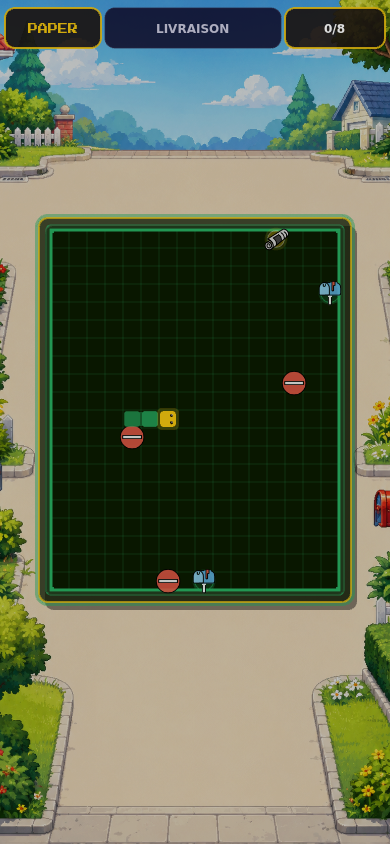
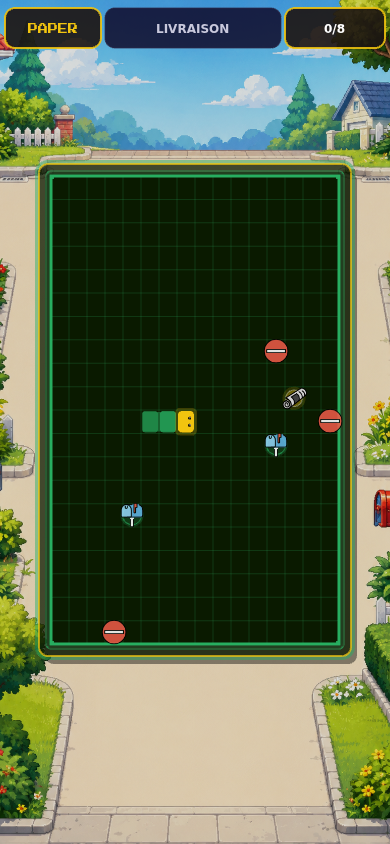
Stretch gameplay grid to Castle frame

diff --git a/src/scenes/GameScene.ts b/src/scenes/GameScene.ts
@@ -14,7 +14,7 @@ import { ShinobiFocusMechanic } from '../mechanics/ShinobiFocusMechanic';
 import { OutRunLaneMechanic } from '../mechanics/OutRunLaneMechanic';
 import { PaperboyDeliveryMechanic } from '../mechanics/PaperboyDeliveryMechanic';
 import { BaseBoss } from '../mechanics/bosses/BaseBoss';
-import { GridRenderer, computeGridLayout, GridLayout, cellToPixel } from '../render/GridRenderer';
+import { GridRenderer, computeGridLayout, GridLayout, cellToPixel, getCellHeight, getCellMin, getCellWidth } from '../render/GridRenderer';
 import { SnakeRenderer } from '../render/SnakeRenderer';
 import { PickupRenderer } from '../render/PickupRenderer';
 import { ObstacleRenderer } from '../render/ObstacleRenderer';
@@ -55,6 +55,7 @@ export class GameScene extends Phaser.Scene {
   private gameOver = false;
   private cleared = false;
   private layout!: GridLayout;
+  private visualBoardLayout!: GridLayout;
   private gridCols = GRID_COLS;
   private gridRows = GRID_ROWS;
 
@@ -152,8 +153,8 @@ export class GameScene extends Phaser.Scene {
     this.gridCols = this.levelConfig.universeId === 'castle' ? CASTLE_GRID_COLS : GRID_COLS;
     this.gridRows = this.levelConfig.universeId === 'castle' ? CASTLE_GRID_ROWS : GRID_ROWS;
     this.grid = new Grid(this.gridCols, this.gridRows);
-    const castleReferenceLayout = this.computeCastleReferenceLayout(width, height);
-    this.layout = this.computeActiveGridLayout(castleReferenceLayout, this.gridCols, this.gridRows);
+    this.visualBoardLayout = this.computeCastleReferenceLayout(width, height);
+    this.layout = this.computeActiveGridLayout(this.visualBoardLayout, this.gridCols, this.gridRows);
 
     // 906 — compute asset keys before renderer creation
     const uid        = this.levelConfig.universeId;
@@ -256,10 +257,10 @@ export class GameScene extends Phaser.Scene {
     }
 
     const gridBounds = new Phaser.Geom.Rectangle(
-      this.layout.x,
-      this.layout.y,
-      this.layout.cellSize * this.layout.cols,
-      this.layout.cellSize * this.layout.rows,
+      this.visualBoardLayout.x,
+      this.visualBoardLayout.y,
+      getCellWidth(this.visualBoardLayout) * this.visualBoardLayout.cols,
+      getCellHeight(this.visualBoardLayout) * this.visualBoardLayout.rows,
     );
     drawCastleRuntimeBoardPanel(this, gridBounds, {
       bg: this.colorBg,
@@ -351,13 +352,14 @@ export class GameScene extends Phaser.Scene {
   }
 
   private computeActiveGridLayout(reference: GridLayout, cols: number, rows: number): GridLayout {
-    const referenceHeight = reference.cellSize * reference.rows;
-    const activeHeight = reference.cellSize * rows;
-    const yOffset = Math.max(0, Math.floor((referenceHeight - activeHeight) / 2));
+    const referenceWidth = getCellWidth(reference) * reference.cols;
+    const referenceHeight = getCellHeight(reference) * reference.rows;
     return {
       x: reference.x,
-      y: reference.y + yOffset,
+      y: reference.y,
       cellSize: reference.cellSize,
+      cellWidth: referenceWidth / cols,
+      cellHeight: referenceHeight / rows,
       cols,
       rows,
     };
@@ -464,7 +466,7 @@ export class GameScene extends Phaser.Scene {
 
     glow.clear();
     const pulse = Math.sin(time / 360) * 0.5 + 0.5;
-    const cs = this.layout.cellSize;
+    const cs = getCellMin(this.layout);
     for (const pickup of pickups) {
       const { px, py } = cellToPixel(this.layout, pickup.col, pickup.row);
       glow.fillStyle(0xf6c45c, 0.20 + 0.08 * pulse);
@@ -483,7 +485,7 @@ export class GameScene extends Phaser.Scene {
     const entities = this.mechanic.getExtraEntities();
     const targets = entities.filter(e => e.type === 'deliveryTarget' || e.type === 'bossTarget');
     if (targets.length === 0) return;
-    const cs = this.layout.cellSize;
+    const cs = getCellMin(this.layout);
     const pulse = Math.sin(time / 350) * 0.5 + 0.5;
     for (const t of targets) {
       const { px, py } = cellToPixel(this.layout, t.cell.col, t.cell.row);

diff --git a/src/render/GridRenderer.ts b/src/render/GridRenderer.ts
@@ -5,6 +5,8 @@ export interface GridLayout {
   x: number;
   y: number;
   cellSize: number;
+  cellWidth?: number;
+  cellHeight?: number;
   cols: number;
   rows: number;
 }
@@ -40,10 +42,24 @@ export function computeGridLayout(
 }
 
 export function cellToPixel(layout: GridLayout, col: number, row: number): { px: number; py: number } {
+  const cellW = getCellWidth(layout);
+  const cellH = getCellHeight(layout);
   return {
-    px: layout.x + col * layout.cellSize + layout.cellSize / 2,
-    py: layout.y + row * layout.cellSize + layout.cellSize / 2,
+    px: layout.x + col * cellW + cellW / 2,
+    py: layout.y + row * cellH + cellH / 2,
   };
+}
+
+export function getCellWidth(layout: GridLayout): number {
+  return layout.cellWidth ?? layout.cellSize;
+}
+
+export function getCellHeight(layout: GridLayout): number {
+  return layout.cellHeight ?? layout.cellSize;
+}
+
+export function getCellMin(layout: GridLayout): number {
+  return Math.min(getCellWidth(layout), getCellHeight(layout));
 }
 
 export class GridRenderer {
@@ -71,10 +87,13 @@ export class GridRenderer {
     for (const t of this.frameTiles) t.destroy();
     this.frameTiles = [];
 
-    const { x, y, cellSize, cols, rows } = this.layout;
-    const w = cellSize * cols;
-    const h = cellSize * rows;
-    const tSize = Math.max(16, Math.min(cellSize * 1.2, 28));
+    const { x, y, cols, rows } = this.layout;
+    const cellW = getCellWidth(this.layout);
+    const cellH = getCellHeight(this.layout);
+    const cellMin = getCellMin(this.layout);
+    const w = cellW * cols;
+    const h = cellH * rows;
+    const tSize = Math.max(16, Math.min(cellMin * 1.2, 28));
 
     // 4 corners + midpoints on each side for a full border feel
     const positions: Array<[number, number]> = [
@@ -103,9 +122,12 @@ export class GridRenderer {
     this.lastBg = bgColor;
     this.lastLine = lineColor;
 
-    const { x, y, cellSize, cols, rows } = this.layout;
-    const w = cellSize * cols;
-    const h = cellSize * rows;
+    const { x, y, cols, rows } = this.layout;
+    const cellW = getCellWidth(this.layout);
+    const cellH = getCellHeight(this.layout);
+    const cellMin = getCellMin(this.layout);
+    const w = cellW * cols;
+    const h = cellH * rows;
 
     this.gfx.clear();
 
@@ -116,10 +138,10 @@ export class GridRenderer {
     // Inner grid lines (subtle)
     this.gfx.lineStyle(1, lineColor, 0.2);
     for (let c = 1; c < cols; c++) {
-      this.gfx.lineBetween(x + c * cellSize, y, x + c * cellSize, y + h);
+      this.gfx.lineBetween(x + c * cellW, y, x + c * cellW, y + h);
     }
     for (let r = 1; r < rows; r++) {
-      this.gfx.lineBetween(x, y + r * cellSize, x + w, y + r * cellSize);
+      this.gfx.lineBetween(x, y + r * cellH, x + w, y + r * cellH);
     }
 
     // Outer border — thick, full opacity
@@ -127,7 +149,7 @@ export class GridRenderer {
     this.gfx.strokeRect(x, y, w, h);
 
     // Corner accents — small filled squares at the 4 corners
-    const cs = Math.max(3, Math.floor(cellSize * 0.18));
+    const cs = Math.max(3, Math.floor(cellMin * 0.18));
     this.gfx.fillStyle(lineColor, 0.9);
     this.gfx.fillRect(x, y, cs, cs);
     this.gfx.fillRect(x + w - cs, y, cs, cs);

diff --git a/src/render/SnakeRenderer.ts b/src/render/SnakeRenderer.ts
@@ -1,6 +1,6 @@
 import Phaser from 'phaser';
 import { SnakeState } from '../core/Snake';
-import { GridLayout, cellToPixel } from './GridRenderer';
+import { GridLayout, cellToPixel, getCellHeight, getCellMin, getCellWidth } from './GridRenderer';
 
 export class SnakeRenderer {
   private gfx: Phaser.GameObjects.Graphics;
@@ -11,9 +11,12 @@ export class SnakeRenderer {
 
   draw(snake: SnakeState, layout: GridLayout, headColor: number, bodyColor: number): void {
     this.gfx.clear();
-    const cs = layout.cellSize;
+    const cs = getCellMin(layout);
+    const cellW = getCellWidth(layout);
+    const cellH = getCellHeight(layout);
     const pad = Math.max(1, Math.floor(cs * 0.1));
-    const bodySize = cs - pad * 2;
+    const bodyW = cellW - pad * 2;
+    const bodyH = cellH - pad * 2;
 
     // Draw body first (back to front, so head renders on top)
     for (let i = snake.body.length - 1; i >= 1; i--) {
@@ -23,7 +26,7 @@ export class SnakeRenderer {
       const t = 1 - i / snake.body.length;
       const alpha = 0.35 + 0.55 * t;
       this.gfx.fillStyle(bodyColor, alpha);
-      this.gfx.fillRoundedRect(px - cs / 2 + pad, py - cs / 2 + pad, bodySize, bodySize, 3);
+      this.gfx.fillRoundedRect(px - cellW / 2 + pad, py - cellH / 2 + pad, bodyW, bodyH, 3);
 
       // Segment connector between consecutive body parts
       if (i < snake.body.length - 1) {
@@ -31,8 +34,8 @@ export class SnakeRenderer {
         const { px: ppx, py: ppy } = cellToPixel(layout, prev.col, prev.row);
         const midX = (px + ppx) / 2;
         const midY = (py + ppy) / 2;
-        const connW = Math.abs(px - ppx) > 0 ? Math.abs(px - ppx) + bodySize : bodySize;
-        const connH = Math.abs(py - ppy) > 0 ? Math.abs(py - ppy) + bodySize : bodySize;
+        const connW = Math.abs(px - ppx) > 0 ? Math.abs(px - ppx) + bodyW : bodyW;
+        const connH = Math.abs(py - ppy) > 0 ? Math.abs(py - ppy) + bodyH : bodyH;
         this.gfx.fillStyle(bodyColor, alpha * 0.6);
         this.gfx.fillRect(
           midX - connW / 2 + pad,
@@ -48,15 +51,16 @@ export class SnakeRenderer {
       const head = snake.body[0];
       const { px, py } = cellToPixel(layout, head.col, head.row);
       const headPad = Math.max(1, Math.floor(cs * 0.06));
-      const headSize = cs - headPad * 2;
+      const headW = cellW - headPad * 2;
+      const headH = cellH - headPad * 2;
 
       // Head glow
       this.gfx.fillStyle(headColor, 0.22);
-      this.gfx.fillRoundedRect(px - cs / 2 - 2, py - cs / 2 - 2, cs + 4, cs + 4, 5);
+      this.gfx.fillRoundedRect(px - cellW / 2 - 2, py - cellH / 2 - 2, cellW + 4, cellH + 4, 5);
 
       // Head body
       this.gfx.fillStyle(headColor, 1);
-      this.gfx.fillRoundedRect(px - cs / 2 + headPad, py - cs / 2 + headPad, headSize, headSize, 4);
+      this.gfx.fillRoundedRect(px - cellW / 2 + headPad, py - cellH / 2 + headPad, headW, headH, 4);
 
       // Eyes — position based on direction
       const dir = snake.direction;

diff --git a/src/render/PickupRenderer.ts b/src/render/PickupRenderer.ts
@@ -1,6 +1,6 @@
 import Phaser from 'phaser';
 import { Cell } from '../core/Grid';
-import { GridLayout, cellToPixel } from './GridRenderer';
+import { GridLayout, cellToPixel, getCellMin } from './GridRenderer';
 import { GAMEPLAY_LAYERS } from '../ui/RuntimeUILayout';
 
 // Shape per universe — matches the game's theme
@@ -93,7 +93,7 @@ export class PickupRenderer {
   }
 
   draw(pickups: Cell[], layout: GridLayout, color: number, time: number): void {
-    const cs = layout.cellSize;
+    const cs = getCellMin(layout);
     const key = this.textureKey;
     const useImages = !!(key && this.scene.textures.exists(key));
     const pulse = Math.sin(time / 400) * 0.5 + 0.5;

diff --git a/src/render/ObstacleRenderer.ts b/src/render/ObstacleRenderer.ts
@@ -1,6 +1,6 @@
 import Phaser from 'phaser';
 import { ExtraEntity } from '../mechanics/BaseMechanic';
-import { GridLayout, cellToPixel } from './GridRenderer';
+import { GridLayout, cellToPixel, getCellMin } from './GridRenderer';
 import { GAMEPLAY_LAYERS } from '../ui/RuntimeUILayout';
 
 // Boss entity types — peuvent utiliser un asset image si disponible
@@ -118,7 +118,7 @@ export class ObstacleRenderer {
 
   draw(entities: ExtraEntity[], layout: GridLayout): void {
     this.gfx.clear();
-    const cs = layout.cellSize;
+    const cs = getCellMin(layout);
     const pad = Math.max(1, Math.floor(cs * 0.08));
 
     const bossKey = this.bossTextureKey;

diff --git a/reports/patch-1091/docs/apply-castle-board-size-to-all-universes.md b/reports/patch-1091/docs/apply-castle-board-size-to-all-universes.md
@@ -13,8 +13,9 @@ Cette empreinte devient la référence parce qu'elle donne le plateau le plus in
 |---|---|---|
 | `src/scenes/GameScene.ts` | Séparation entre grille logique active et empreinte visuelle Castle 16x26. | Appliquer la présence visuelle Castle partout sans modifier les mécaniques. |
 | `src/scenes/GameScene.ts` | Suppression des maps d'exceptions de sizing par univers, y compris OutRun. | Castle devient la règle de référence commune. |
-| `src/scenes/GameScene.ts` | Cadre décoratif calé sur la grille active. | Éviter les bandes vides quand un univers reste en 16x20. |
+| `src/scenes/GameScene.ts` | Grille active étirée dans l'empreinte Castle. | Le plateau jouable doit remplir le cadre standard Castle. |
 | `src/ui/CastleRuntimeLayering.ts` | Couleurs de panneau paramétrées par palette univers. | Le cadre complet doit reprendre les couleurs de l'univers courant. |
+| `src/render/GridRenderer.ts` et renderers gameplay | Support des cellules visuelles rectangulaires. | Afficher une grille 16x20 sur toute la hauteur 16x26 sans changer les coordonnées. |
 | `reports/patch-1091/capture-patch-1091.mjs` | Captures ciblées et CSV de comparaison. | Produire les preuves visuelles demandées. |
 
 ## Règle finale
@@ -22,23 +23,23 @@ Les niveaux normaux utilisent leur grille logique existante. Castle reste en 16x
 
 Les boss utilisent la même règle que les niveaux normaux de leur univers.
 
-Les univers avec une grille logique 16x20 utilisent la même taille de cellule que Castle. Le cadre décoratif suit la grille active 16x20 pour éviter un panneau 16x26 avec des bandes vides. Les coordonnées, collisions, spawns et mécaniques restent sur la grille logique active.
+Les univers avec une grille logique 16x20 remplissent l'empreinte visuelle Castle 16x26. Pour préserver les mécaniques, les coordonnées restent en 16x20, mais le rendu utilise une cellule visuelle plus haute afin que les 20 rangées occupent toute la hauteur du cadre Castle.
 
-OutRun n'a plus d'exception de largeur ou de biais vertical. Son cockpit est traité par la même règle de cellule et le cadre prend les couleurs OutRun.
+OutRun n'a plus d'exception de largeur ou de biais vertical. Son cockpit est traité par la même règle d'empreinte Castle et le cadre prend les couleurs OutRun.
 
 ## Comparaison
 | Niveau | Univers | Type | Grille | Plateau visuel | Cellule | Référence appliquée |
 |---|---|---|---|---|---|---|
 | castle_normal | castle | normal | 16x26 | 288x468 | 18 | oui |
-| sonic_normal | sonic | normal | 16x20 | 288x360 | 18 | oui |
-| paperboy_normal | paperboy | normal | 16x20 | 288x360 | 18 | oui |
-| outrun_normal | outrun | normal | 16x20 | 288x360 | 18 | oui |
-| sonic_boss | sonic | boss | 16x20 | 288x360 | 18 | oui |
+| sonic_normal | sonic | normal | 16x20 | 288x468 | 18 | oui |
+| paperboy_normal | paperboy | normal | 16x20 | 288x468 | 18 | oui |
+| outrun_normal | outrun | normal | 16x20 | 288x468 | 18 | oui |
+| sonic_boss | sonic | boss | 16x20 | 288x468 | 18 | oui |
 
 ## Exceptions
 Aucune exception de sizing visuel par univers ne reste. La seule différence conservée est la grille logique Castle 16x26 contre 16x20 pour les autres univers, afin de ne pas changer les mécaniques.
 
 ## Risques
 - Les backgrounds non-Castle ont maintenant un plateau plus étroit et plus cadré verticalement.
-- Les univers 16x20 gardent la cellule Castle, mais pas la hauteur 26 rangées, pour éviter un cadre vide non jouable.
+- Les univers 16x20 utilisent des cellules visuelles plus hautes que larges; validation mobile réelle recommandée pour confirmer le ressenti.
 - Les petits écrans mobiles restent à vérifier après déploiement.

diff --git a/reports/patch-1091/review.md b/reports/patch-1091/review.md
@@ -4,11 +4,15 @@
 Appliquer la taille de plateau Castle comme référence à tous les univers.
 
 ## Résultat
-La règle finale conserve la cellule Castle comme référence. Castle reste en 16x26; les univers 16x20 gardent leur grille logique et utilisent un cadre décoratif calé sur la grille active, sans bandes vides. Le cadre complet reprend maintenant les couleurs de la palette univers.
+La règle finale conserve le cadre Castle complet comme référence. Castle reste en 16x26; les univers 16x20 gardent leur grille logique, mais leur rendu s'étire sur toute l'empreinte Castle 288x468. Le cadre complet reprend les couleurs de la palette univers.
 
 ## Fichiers modifiés
 - `src/scenes/GameScene.ts`
 - `src/ui/CastleRuntimeLayering.ts`
+- `src/render/GridRenderer.ts`
+- `src/render/SnakeRenderer.ts`
+- `src/render/PickupRenderer.ts`
+- `src/render/ObstacleRenderer.ts`
 - `reports/patch-1091/capture-patch-1091.mjs`
 - `reports/patch-1091/docs/apply-castle-board-size-to-all-universes.md`
 - `reports/patch-1091/logs/board-size-comparison.csv`
